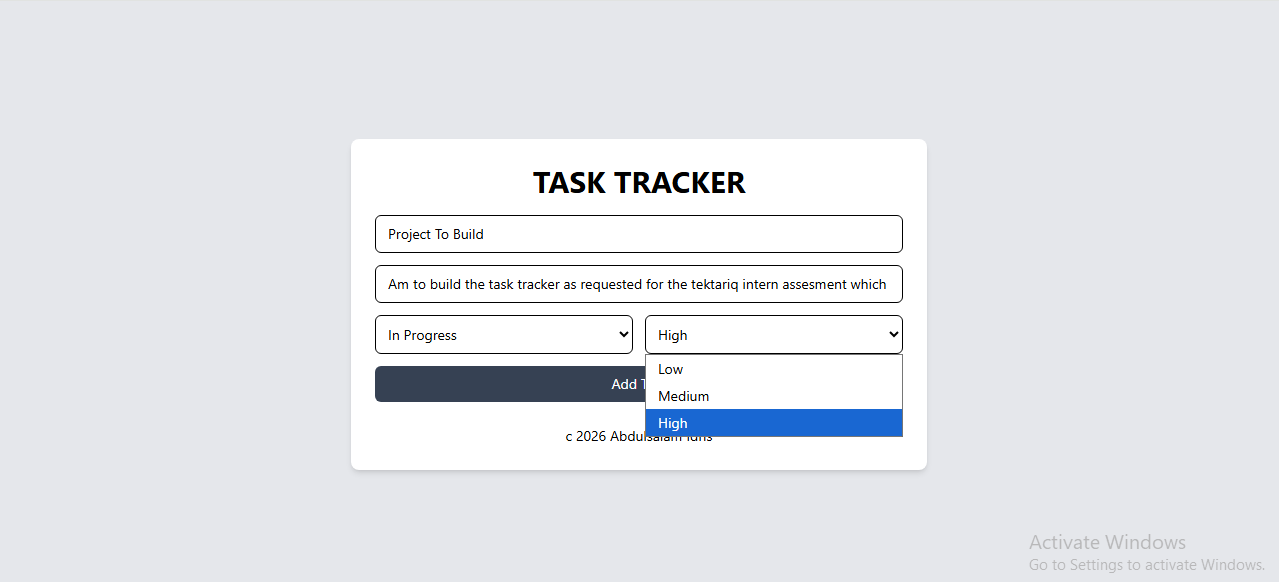
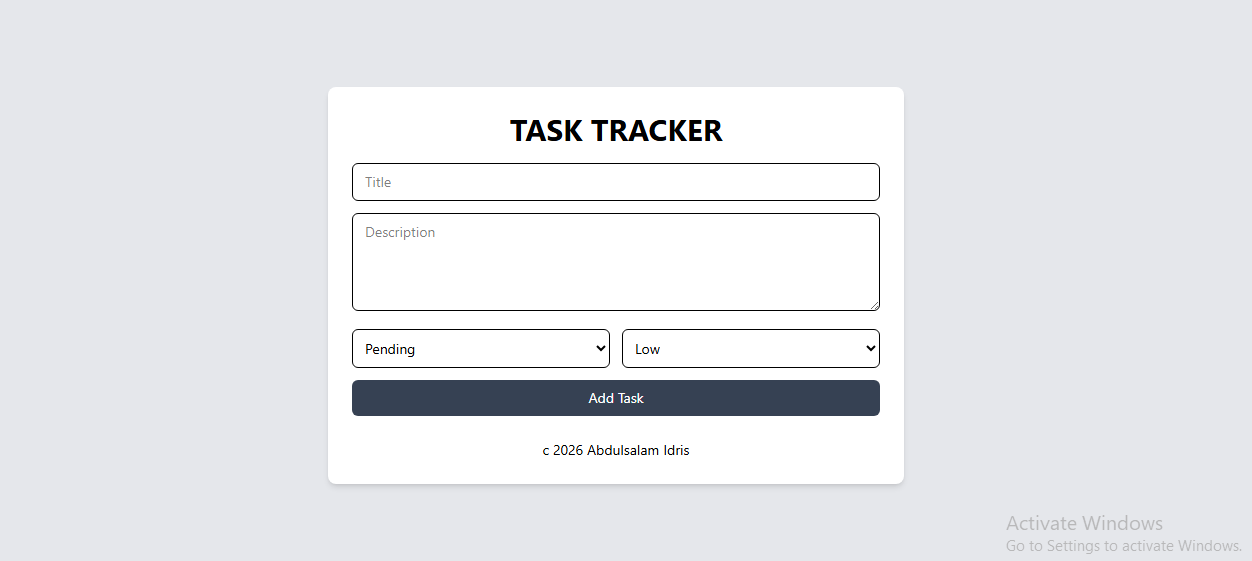
Re-upload the screenshots as a result of textarea from the initial one

Changed region(s): [[0.2492, 0.1515, 0.7476, 0.8788], [0.8722, 0.9091, 0.9657, 1.0], [0.8099, 0.9394, 0.8411, 1.0]]

diff --git a/src/components/TaskForm.jsx b/src/components/TaskForm.jsx
@@ -36,12 +36,13 @@ export default function TaskForm({ onCreate }) {
                 className="w-full border rounded-md px-3 py-2 text-sm"
             />
 
-            <input
+            <textarea
                 placeholder="Description"
                 value={form.description}
                 onChange={(e) =>
                     setForm({ ...form, description: e.target.value })
                 }
+                rows={4}
                 className="w-full border rounded-md px-3 py-2 text-sm"
             />
 
